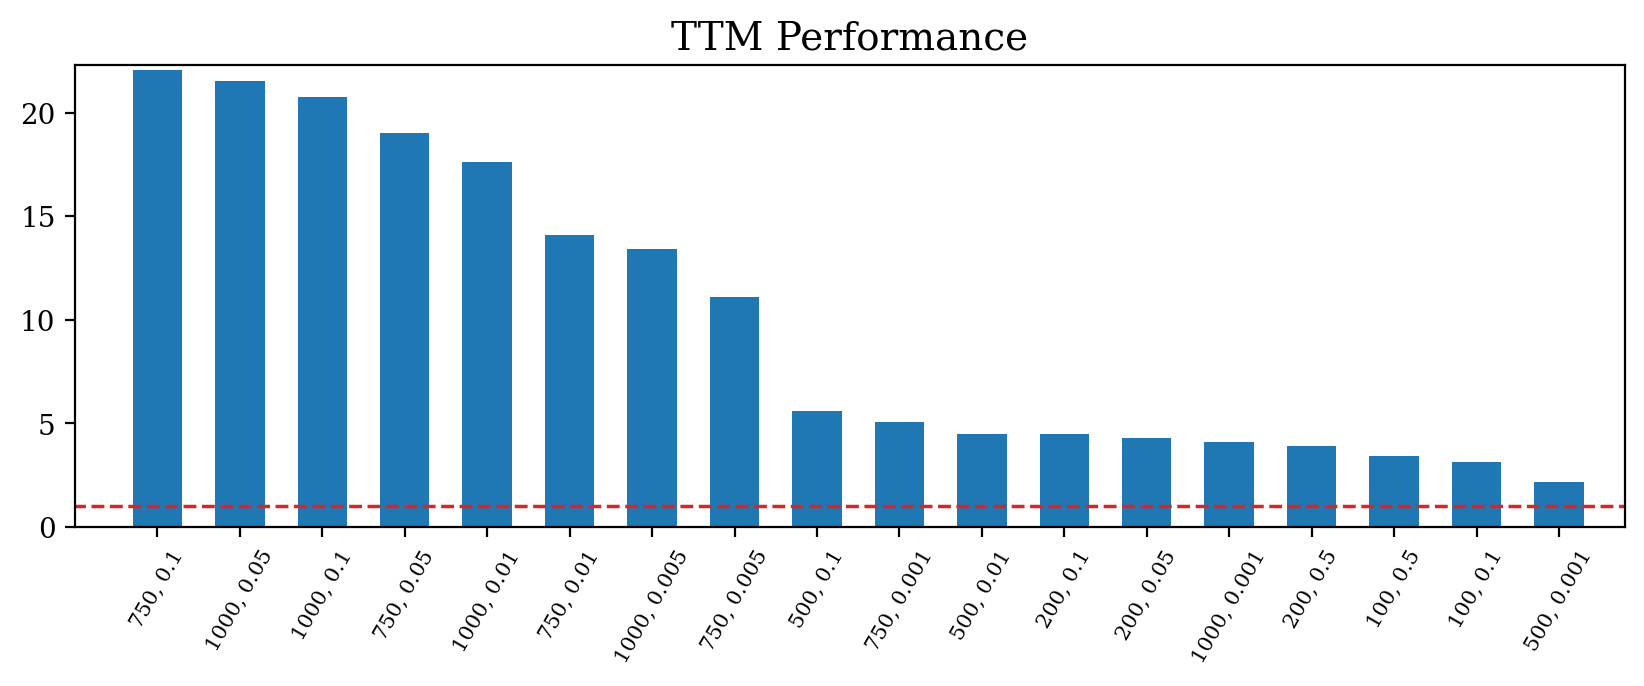
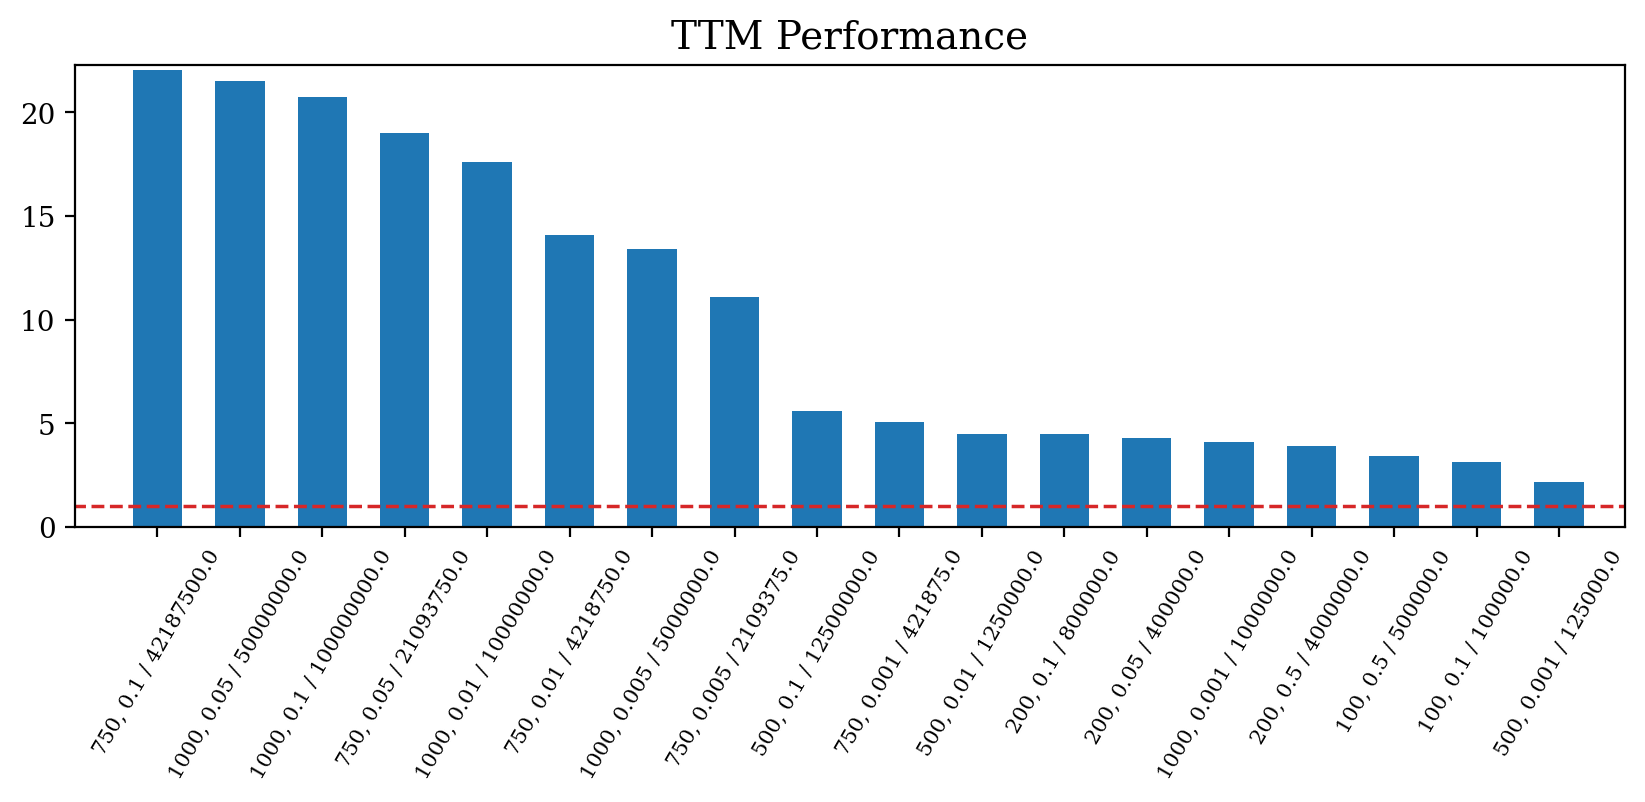
Transpose C in naive TTM

diff --git a/kernels/chart.py b/kernels/chart.py
@@ -7,8 +7,9 @@ from collections import defaultdict
 import re
 
 # RESULTS_FILE_PATH = "ssymv/ssymv_results.json"
-# RESULTS_FILE_PATH = "ttm/ttm_results.json"
-RESULTS_FILE_PATH = "mttkrp/mttkrp_results.json"
+RESULTS_FILE_PATH = "ttm/ttm_results.json"
+# RESULTS_FILE_PATH = "mttkrp/mttkrp_results.json"
+# RESULTS_FILE_PATH = "ssymm/ssymm_results.json"
 
 CHARTS_DIRECTORY = "charts/"
 FORMAT_ORDER = {
@@ -34,7 +35,8 @@ FORMAT_LABELS = {
     "ssymv_opt": "SSYMV (symmetrized)",
     "ssyrk_opt": "SSYRK (symmetrized)",
     "ttm_opt": "TTM (symmetrized)",
-    "mttkrp_opt": "MTTKRP (symmetrized)"
+    "mttkrp_opt": "MTTKRP (symmetrized)",
+    "ssymm_opt": "SSYMM (symmetrized)",
 }
 
 def all_formats_chart(ordered_by_format=False):
@@ -115,8 +117,9 @@ def get_method_results(method, mtxs=[]):
     for result in results:
         if "sparsity" in result and "size" in result and result["method"] == method:
             n = result["size"]
-            s = result["sparsity"] 
-            mtx_name = f"{n}, {s}"
+            s = result["sparsity"]
+            nnz = n * n * n * s 
+            mtx_name = f"{n}, {s} / {nnz}"
             mtx_times[mtx_name] = result["time"]
             continue
         if result["method"] == method and (mtxs == [] or result["matrix"] in mtxs):
@@ -193,5 +196,6 @@ def make_grouped_bar_chart(labels, x_axis, data, colors = None, labeled_groups =
     
 
 # method_to_ref_comparison_chart("ssymv_opt", "ssymv_ref", "SSYMV Performance")
-# method_to_ref_comparison_chart("ttm_opt", "ttm_ref", "TTM Performance")
-method_to_ref_comparison_chart("mttkrp_opt", "mttkrp_ref", "MTTKRP Performance")
+method_to_ref_comparison_chart("ttm_opt", "ttm_ref", "TTM Performance")
+# method_to_ref_comparison_chart("mttkrp_opt", "mttkrp_ref", "MTTKRP Performance")
+# method_to_ref_comparison_chart("ssymm_opt", "ssymm_ref", "SSYMM Performance")
